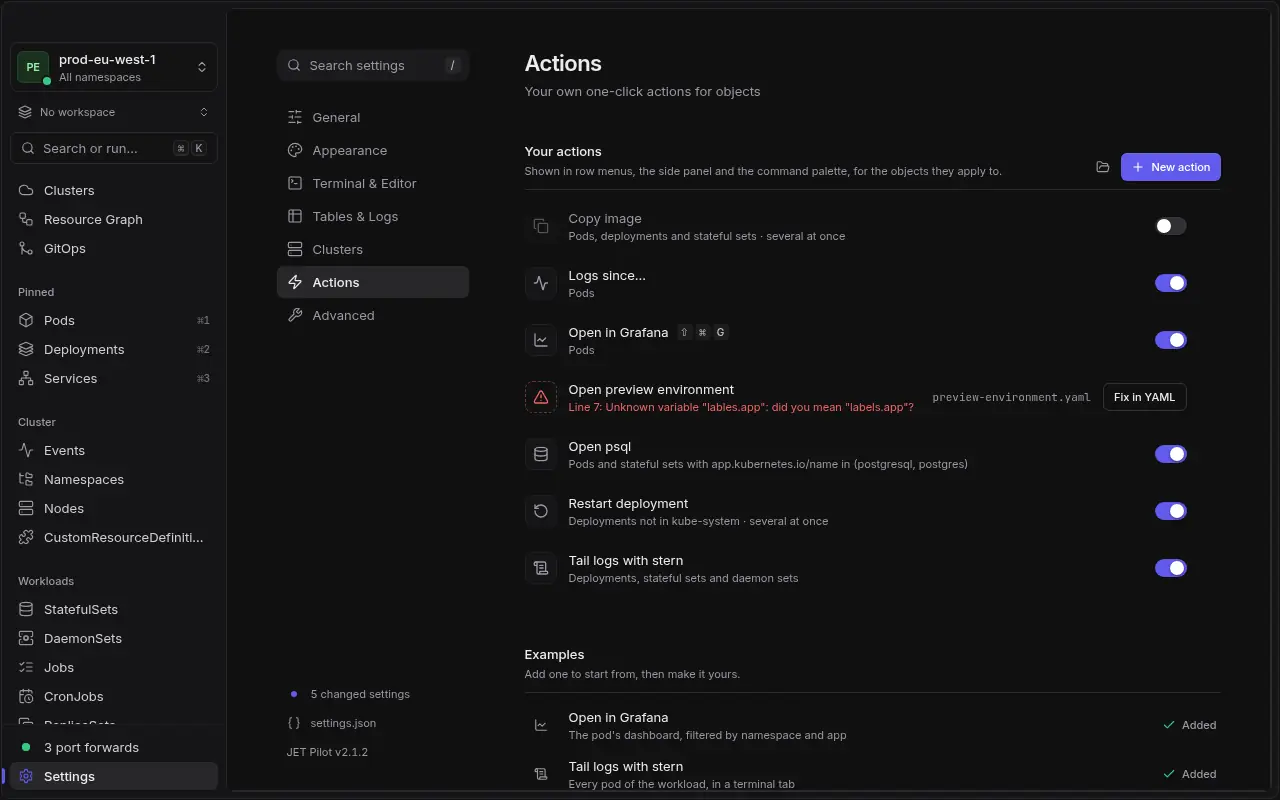
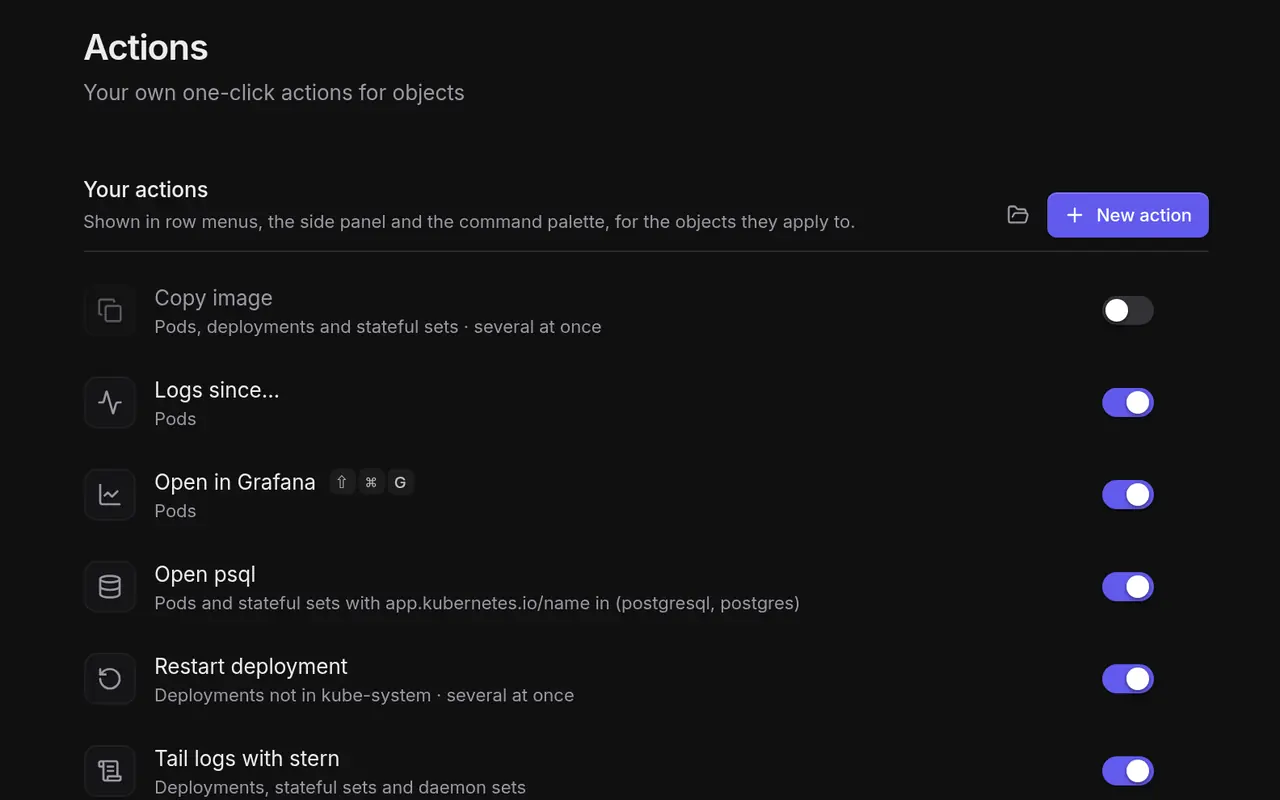
feat: a port forwards slide in What's New for 2.2
Port forwards get their own slide (the HTTP tester), after custom
actions. "Under the hood" swaps "Forwards that heal" for the native
describe, and "Straight to the API" no longer mentions describe. The
custom actions image is now a close-up of Settings > Actions with only
valid actions and no settings footer.

diff --git a/src/components/whats-new/WhatsNewSlides.vue b/src/components/whats-new/WhatsNewSlides.vue
@@ -11,7 +11,7 @@ import {
 } from "@/components/ui/carousel";
 import type { UnwrapRefCarouselApi } from "@/components/ui/carousel/interface";
 import { Button } from "@/components/ui/button";
-import { Braces, ChartLine, Columns3, RefreshCw, ShieldCheck, Unplug } from "lucide-vue-next";
+import { Braces, ChartLine, Columns3, FileSearch, ShieldCheck, Unplug } from "lucide-vue-next";
 
 import gitopsDark from "@/assets/whats-new/gitops-dark.webp";
 import gitopsLight from "@/assets/whats-new/gitops-light.webp";
@@ -27,6 +27,8 @@ import operatorsDark from "@/assets/whats-new/operators-dark.webp";
 import operatorsLight from "@/assets/whats-new/operators-light.webp";
 import actionsDark from "@/assets/whats-new/actions-dark.webp";
 import actionsLight from "@/assets/whats-new/actions-light.webp";
+import portForwardsDark from "@/assets/whats-new/port-forwards-dark.webp";
+import portForwardsLight from "@/assets/whats-new/port-forwards-light.webp";
 
 const emit = defineEmits<{ done: [] }>();
 
@@ -80,13 +82,20 @@ const slides = [
     dark: actionsDark,
     light: actionsLight,
   },
+  {
+    title: "Port forwards that heal",
+    description:
+      "Forwards follow their pod through restarts and rollouts, and say quietly when they healed. Send one a request and see the status, headers and body without leaving JET Pilot.",
+    dark: portForwardsDark,
+    light: portForwardsLight,
+  },
 ];
 
 const underTheHood = [
   {
     icon: Unplug,
     title: "Straight to the API",
-    text: "Describe, YAML, browsing Helm releases and port forwards no longer need kubectl or helm.",
+    text: "YAML, browsing Helm releases and port forwards no longer need kubectl or helm.",
   },
   {
     icon: ChartLine,
@@ -94,9 +103,9 @@ const underTheHood = [
     text: "Usage history reaches Prometheus through the API server: no port-forward, no setup.",
   },
   {
-    icon: RefreshCw,
-    title: "Forwards that heal",
-    text: "When a pod is replaced, its port forward moves to the next one. Send it a request from the list.",
+    icon: FileSearch,
+    title: "Describe without kubectl",
+    text: "A structured, searchable describe built from the API; kubectl's text is one click away.",
   },
   {
     icon: Braces,
